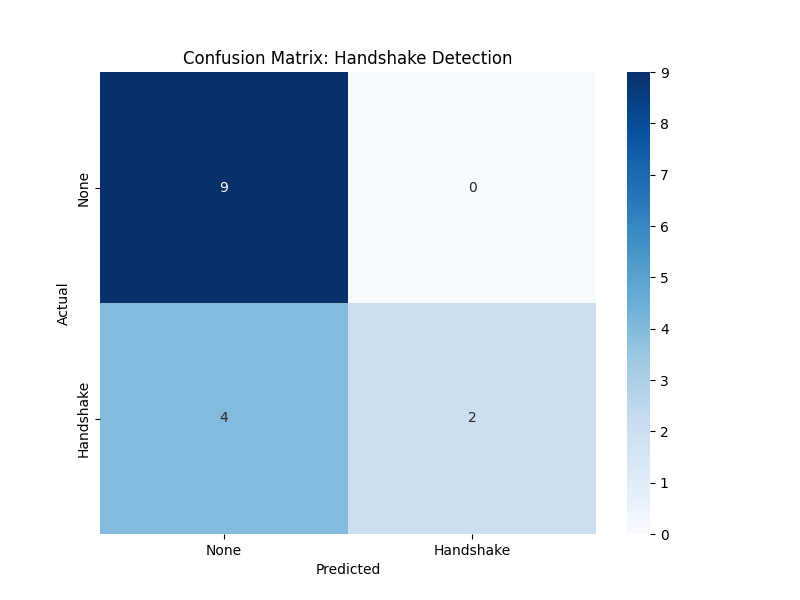
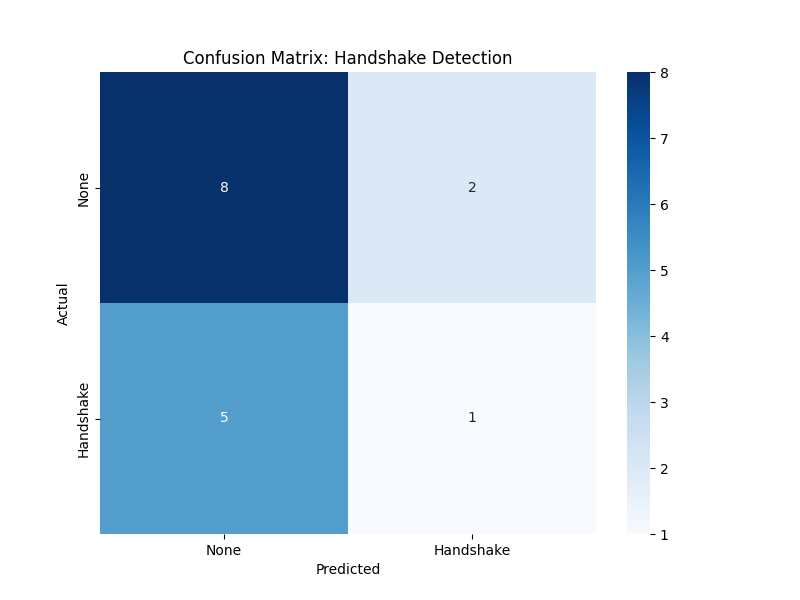
3 way fusion technique

diff --git a/update_model/predict_cnn.py b/update_model/predict_cnn.py
@@ -20,14 +20,14 @@ model = tf.keras.models.load_model("handshake_model.keras")
 
 # Configuration
 WINDOW_SIZE = 10 
-THRESHOLD = 0.7   
-MIN_CONSISTENCY = 0.8 
+THRESHOLD = 0.65  # Lowered slightly because Fusion is more robust
 prediction_queue = deque(maxlen=WINDOW_SIZE)
 
 # Persistence Configuration
 STABILITY_HISTORY = 15  
 coord_history = deque(maxlen=STABILITY_HISTORY)
-STABILITY_THRESHOLD = 0.012  # Adjustable: lower is stricter
+# Range of movement allowed (Standard Deviation)
+MAX_STABILITY_STD = 0.020 
 
 def get_kinematic_score(landmarks):
     tip_y = landmarks[8].y
@@ -52,7 +52,7 @@ while cap.isOpened():
     detection_result = detector.detect_for_video(mp_image, timestamp)
 
     k_score = 0
-    is_still = False
+    p_score = 0 # Persistence Score
     
     if detection_result.hand_landmarks:
         current_landmarks = detection_result.hand_landmarks[0]
@@ -65,8 +65,11 @@ while cap.isOpened():
         if len(coord_history) == STABILITY_HISTORY:
             std_x = np.std([c[0] for c in coord_history])
             std_y = np.std([c[1] for c in coord_history])
-            # Hand is 'still' if coordinate variance is below threshold
-            is_still = (std_x < STABILITY_THRESHOLD and std_y < STABILITY_THRESHOLD)
+            avg_std = (std_x + std_y) / 2
+            
+            # Soft Scoring: Persistence reward proportional to stillness
+            # If avg_std is 0.005 (very still), p_score is high. If 0.02 (moving), p_score is 0.
+            p_score = np.clip(1.0 - (avg_std / MAX_STABILITY_STD), 0, 1)
     else:
         coord_history.clear()
 
@@ -77,23 +80,37 @@ while cap.isOpened():
     img_cnn = np.expand_dims(img_cnn, axis=0)
     cnn_raw = model.predict(img_cnn, verbose=0)[0][0]
 
-    # Decision Fusion with Persistence
-    fused_pred = (0.5 * cnn_raw) + (0.5 * k_score)
+# --- STEP 4: 3-WAY FUSION LOGIC ---
+    # CNN (50%) + Kinematics (30%) + Persistence (20%)
+    fused_pred = (0.5 * cnn_raw) + (0.3 * k_score) + (0.2 * p_score)
     prediction_queue.append(fused_pred)
-    
     avg_conf = sum(prediction_queue) / len(prediction_queue)
+
+    # --- DIAGNOSTIC DASHBOARD ---
+    # Create a background for better readability for low-vision users
+    cv2.rectangle(frame, (5, 5), (450, 220), (0, 0, 0), -1)
     
-    # State Logic: Only Verify if Fused Score is high AND Hand is Stationary
-    if avg_conf > THRESHOLD and is_still:
+    # Define color-coded thresholds (Green if contributing well, Red if low)
+    c_color = (0, 255, 0) if cnn_raw > 0.5 else (0, 0, 255)
+    k_color = (0, 255, 0) if k_score > 0.5 else (0, 0, 255)
+    p_color = (0, 255, 0) if p_score > 0.5 else (0, 0, 255)
+
+    # Render individual scores
+    cv2.putText(frame, f"CNN (Pixels): {cnn_raw:.2f}", (15, 40), cv2.FONT_HERSHEY_SIMPLEX, 0.8, c_color, 2)
+    cv2.putText(frame, f"Kinematic (Pose): {k_score:.2f}", (15, 80), cv2.FONT_HERSHEY_SIMPLEX, 0.8, k_color, 2)
+    cv2.putText(frame, f"Persistence (Still): {p_score:.2f}", (15, 120), cv2.FONT_HERSHEY_SIMPLEX, 0.8, p_color, 2)
+    cv2.putText(frame, f"TOTAL FUSED: {avg_conf:.2f}", (15, 180), cv2.FONT_HERSHEY_SIMPLEX, 1.0, (255, 255, 255), 2)
+
+    # Final Decision Output
+    if avg_conf > THRESHOLD and p_score > 0.6:
         label, color = "VERIFIED: WAITING", (0, 255, 0)
-    elif avg_conf > THRESHOLD and not is_still:
-        label, color = "Hand Detected: Keep Still", (0, 255, 255) # Yellow warning
+    elif avg_conf > THRESHOLD:
+        label, color = "Stabilizing...", (0, 255, 255)
     else:
         label, color = "Scanning...", (0, 0, 255)
 
-    cv2.putText(frame, f"{label} ({avg_conf:.2f})", (10, 80),
-                cv2.FONT_HERSHEY_SIMPLEX, 1.5, color, 3)
-    cv2.imshow("Handshake Fusion with Persistence", frame)
+    cv2.putText(frame, label, (10, 300), cv2.FONT_HERSHEY_SIMPLEX, 1.5, color, 3)
+    cv2.imshow("Handshake 3-Way Fusion", frame)
 
     if cv2.waitKey(1) & 0xFF == ord('q'): break
 

diff --git a/update_model/v5_notes.md b/update_model/v5_notes.md
@@ -135,3 +135,92 @@ The more they weight, the weight should increase more?
 
 Lets decrease cnn to 0.5 and increase kinematic to 0.5
 
+Add another fusion (persistance) and assigned weights to it
+currently cnn: 50%, kinematic: 30%, persistance: 20%
+
+still cnn is draging score so we will add few images where it is scoring low to handshake category
+
+
+python cnn_model_trainer.py
+/Users/nagashayanaramamurthy/GitHub/rp-help-tools/update_model/.venv/lib/python3.9/site-packages/urllib3/__init__.py:35: NotOpenSSLWarning: urllib3 v2 only supports OpenSSL 1.1.1+, currently the 'ssl' module is compiled with 'LibreSSL 2.8.3'. See: https://github.com/urllib3/urllib3/issues/3020
+  warnings.warn(
+Found 71 images belonging to 2 classes.
+Found 16 images belonging to 2 classes.
+/Users/nagashayanaramamurthy/GitHub/rp-help-tools/update_model/.venv/lib/python3.9/site-packages/keras/src/trainers/data_adapters/py_dataset_adapter.py:121: UserWarning: Your `PyDataset` class should call `super().__init__(**kwargs)` in its constructor. `**kwargs` can include `workers`, `use_multiprocessing`, `max_queue_size`. Do not pass these arguments to `fit()`, as they will be ignored.
+  self._warn_if_super_not_called()
+Epoch 1/15
+3/3 ━━━━━━━━━━━━━━━━━━━━ 6s 1s/step - accuracy: 0.4848 - loss: 0.9535 - val_accuracy: 0.6250 - val_loss: 0.6065
+Epoch 2/15
+3/3 ━━━━━━━━━━━━━━━━━━━━ 3s 861ms/step - accuracy: 0.6482 - loss: 0.8290 - val_accuracy: 0.7500 - val_loss: 0.4687
+Epoch 3/15
+3/3 ━━━━━━━━━━━━━━━━━━━━ 3s 812ms/step - accuracy: 0.5767 - loss: 0.8390 - val_accuracy: 0.6875 - val_loss: 0.5159
+Epoch 4/15
+3/3 ━━━━━━━━━━━━━━━━━━━━ 3s 760ms/step - accuracy: 0.6059 - loss: 0.7507 - val_accuracy: 0.6250 - val_loss: 0.5897
+Epoch 5/15
+3/3 ━━━━━━━━━━━━━━━━━━━━ 3s 1s/step - accuracy: 0.7798 - loss: 0.5153 - val_accuracy: 0.6875 - val_loss: 0.4818
+Epoch 6/15
+3/3 ━━━━━━━━━━━━━━━━━━━━ 3s 728ms/step - accuracy: 0.6761 - loss: 0.6498 - val_accuracy: 0.6875 - val_loss: 0.5575
+Epoch 7/15
+3/3 ━━━━━━━━━━━━━━━━━━━━ 3s 804ms/step - accuracy: 0.6758 - loss: 0.5434 - val_accuracy: 0.6250 - val_loss: 0.5180
+Epoch 8/15
+3/3 ━━━━━━━━━━━━━━━━━━━━ 3s 726ms/step - accuracy: 0.7623 - loss: 0.5190 - val_accuracy: 0.6250 - val_loss: 0.5493
+Epoch 9/15
+3/3 ━━━━━━━━━━━━━━━━━━━━ 3s 1s/step - accuracy: 0.8074 - loss: 0.4631 - val_accuracy: 0.6875 - val_loss: 0.4806
+Epoch 10/15
+3/3 ━━━━━━━━━━━━━━━━━━━━ 3s 735ms/step - accuracy: 0.7748 - loss: 0.4933 - val_accuracy: 0.6875 - val_loss: 0.4631
+Epoch 11/15
+3/3 ━━━━━━━━━━━━━━━━━━━━ 3s 1s/step - accuracy: 0.8215 - loss: 0.4033 - val_accuracy: 0.6875 - val_loss: 0.5321
+Epoch 12/15
+3/3 ━━━━━━━━━━━━━━━━━━━━ 3s 714ms/step - accuracy: 0.8097 - loss: 0.4319 - val_accuracy: 0.7500 - val_loss: 0.4336
+Epoch 13/15
+3/3 ━━━━━━━━━━━━━━━━━━━━ 3s 1s/step - accuracy: 0.8636 - loss: 0.4204 - val_accuracy: 0.6875 - val_loss: 0.4734
+Epoch 14/15
+3/3 ━━━━━━━━━━━━━━━━━━━━ 3s 794ms/step - accuracy: 0.8245 - loss: 0.3938 - val_accuracy: 0.7500 - val_loss: 0.4641
+Epoch 15/15
+3/3 ━━━━━━━━━━━━━━━━━━━━ 3s 1s/step - accuracy: 0.7243 - loss: 0.7709 - val_accuracy: 0.8125 - val_loss: 0.4146
+Epoch 1/15
+3/3 ━━━━━━━━━━━━━━━━━━━━ 17s 2s/step - accuracy: 0.5134 - loss: 0.9726 - val_accuracy: 0.8125 - val_loss: 0.3978
+Epoch 2/15
+3/3 ━━━━━━━━━━━━━━━━━━━━ 4s 1s/step - accuracy: 0.7238 - loss: 0.7173 - val_accuracy: 0.8125 - val_loss: 0.4241
+Epoch 3/15
+3/3 ━━━━━━━━━━━━━━━━━━━━ 3s 1s/step - accuracy: 0.6974 - loss: 0.6349 - val_accuracy: 0.8125 - val_loss: 0.3897
+Epoch 4/15
+3/3 ━━━━━━━━━━━━━━━━━━━━ 4s 782ms/step - accuracy: 0.7076 - loss: 0.5914 - val_accuracy: 0.8125 - val_loss: 0.4308
+Epoch 5/15
+3/3 ━━━━━━━━━━━━━━━━━━━━ 3s 798ms/step - accuracy: 0.6372 - loss: 0.6334 - val_accuracy: 0.7500 - val_loss: 0.4514
+Epoch 6/15
+3/3 ━━━━━━━━━━━━━━━━━━━━ 4s 1s/step - accuracy: 0.6700 - loss: 0.6157 - val_accuracy: 0.7500 - val_loss: 0.3898
+Epoch 7/15
+3/3 ━━━━━━━━━━━━━━━━━━━━ 4s 1s/step - accuracy: 0.7547 - loss: 0.4631 - val_accuracy: 0.8125 - val_loss: 0.3928
+Epoch 8/15
+3/3 ━━━━━━━━━━━━━━━━━━━━ 4s 1s/step - accuracy: 0.6688 - loss: 0.5875 - val_accuracy: 0.8750 - val_loss: 0.3610
+Epoch 9/15
+3/3 ━━━━━━━━━━━━━━━━━━━━ 4s 1s/step - accuracy: 0.7035 - loss: 0.5715 - val_accuracy: 0.8125 - val_loss: 0.4596
+Epoch 10/15
+3/3 ━━━━━━━━━━━━━━━━━━━━ 4s 783ms/step - accuracy: 0.7342 - loss: 0.5419 - val_accuracy: 0.7500 - val_loss: 0.4261
+Epoch 11/15
+3/3 ━━━━━━━━━━━━━━━━━━━━ 4s 1s/step - accuracy: 0.7466 - loss: 0.5535 - val_accuracy: 0.9375 - val_loss: 0.3278
+Epoch 12/15
+3/3 ━━━━━━━━━━━━━━━━━━━━ 4s 1s/step - accuracy: 0.7119 - loss: 0.5546 - val_accuracy: 0.7500 - val_loss: 0.3776
+Epoch 13/15
+3/3 ━━━━━━━━━━━━━━━━━━━━ 3s 845ms/step - accuracy: 0.6513 - loss: 0.6488 - val_accuracy: 0.8750 - val_loss: 0.3951
+Epoch 14/15
+3/3 ━━━━━━━━━━━━━━━━━━━━ 4s 1s/step - accuracy: 0.6842 - loss: 0.5922 - val_accuracy: 0.8125 - val_loss: 0.3254
+Epoch 15/15
+3/3 ━━━━━━━━━━━━━━━━━━━━ 3s 2s/step - accuracy: 0.7166 - loss: 0.4886 - val_accuracy: 0.8125 - val_loss: 0.4307
+Model training complete!
+1/1 ━━━━━━━━━━━━━━━━━━━━ 1s 1s/step
+Precision: 0.3333
+Recall: 0.1667
+F1-Score: 0.2222
+Specificity: 0.8000
+
+plot8.png
+
+
+also kinematic is too liberal, can we identify vertical fingers vs horizontal? 
+currently highfi is scoring 100% of kinematic (20%).
+
+This addition allows you to move your paper from "handshake detection" to "Social Gesture Discrimination".Geometrical Feature Engineering: You are no longer just using a "black box"; you are using Spatial Vector Analysis to define the handshake.Discriminating Similar Gestures: In your Methodology, you can write: "To eliminate false positives from horizontal gestures like 'High-Fives' or 'Waves,' we implemented a spatial slope check on the index finger vector ($\vec{V}_{5 \to 8}$). Only gestures maintaining a primary vertical axis in the sagittal plane are processed by the fusion layer".
+
+Let's add landmark mapping to see what is going on.
